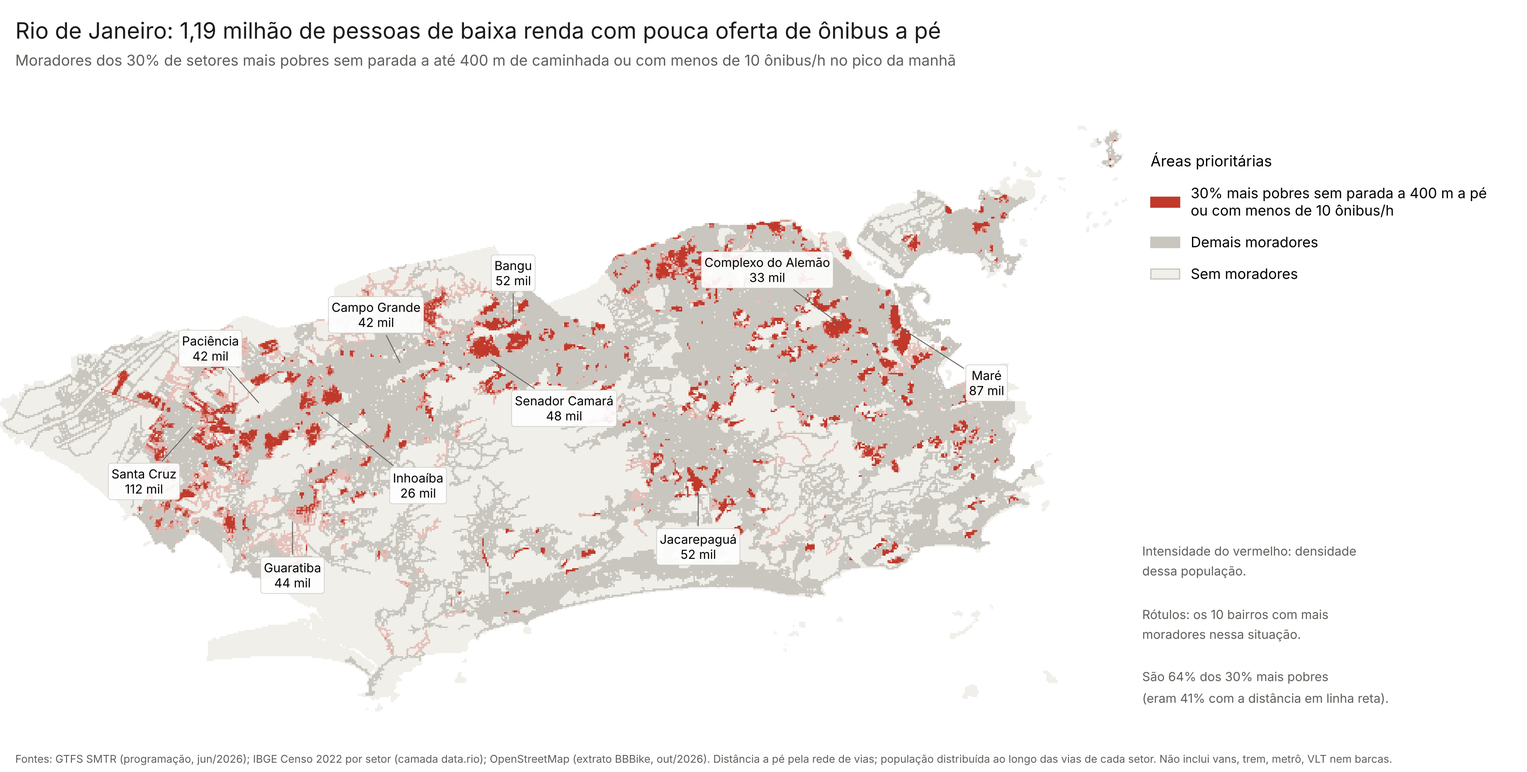
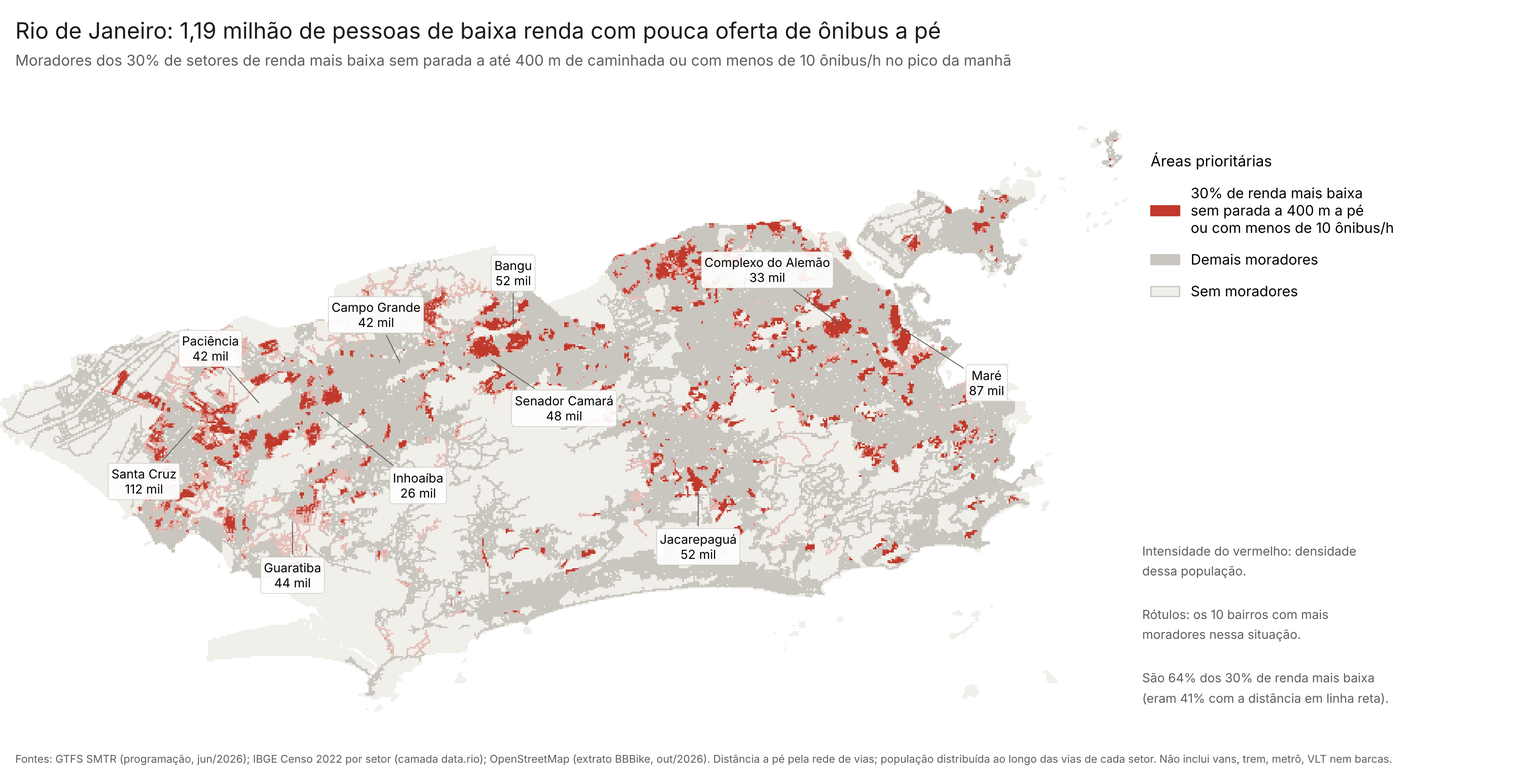
Troca "pobres" por "de renda mais baixa" (e "ricos" por "de renda mais alta") em textos, colunas e mapas
Claude-Session: https://claude.ai/code/session_01NJBd8BN6FHSywdz2uV6HJ5

Changed region(s): [[0.7482, 0.2465, 0.9665, 0.4006], [0.1559, 0.0616, 0.6547, 0.0924], [0.7482, 0.8628, 0.9041, 0.8936]]

diff --git a/reserva_secao_territorial/index_v5_com_indicadores_territoriais.html b/reserva_secao_territorial/index_v5_com_indicadores_territoriais.html
@@ -341,10 +341,10 @@ const IND=[
   desc:'Moradores a até 400 m a pé divididos pelas partidas de dia útil. Mede pressão potencial, não demanda.',
   get:l=>l.tec.ppp, cuts:[500,1000,2000,4000,8000], dir:'desc', pal:NEUT,
   labels:['menos de 500','500 a 1.000','1.000 a 2.000','2.000 a 4.000','4.000 a 8.000','8.000 ou mais'], show:v=>`${fmt(v)} moradores por partida`, short:v=>fmt(v), nd:'não roda em dia útil'},
- {k:'pob',tec:1,chip:'% mais pobres atendidos',titulo:'Parte da área atendida nos 30% mais pobres',unid:'%',usaFaixa:false,neutral:true,
+ {k:'pob',tec:1,chip:'% de renda mais baixa atendidos',titulo:'Parte da área atendida nos 30% de renda mais baixa',unid:'%',usaFaixa:false,neutral:true,
   desc:'Dos moradores a até 400 m a pé, quantos moram nos 30% de setores censitários de menor renda da cidade (referência neutra: 30%).',
   get:l=>l.tec.pob, cuts:[5,10,20,30,45], dir:'desc', pal:NEUT,
-  labels:['menos de 5%','5% a 10%','10% a 20%','20% a 30%','30% a 45%','45% ou mais'], show:v=>`${fmt(v)}% dos atendidos nos 30% mais pobres`, short:v=>`${fmt(v)}%`, nd:'sem dado'},
+  labels:['menos de 5%','5% a 10%','10% a 20%','20% a 30%','30% a 45%','45% ou mais'], show:v=>`${fmt(v)}% dos atendidos nos 30% de renda mais baixa`, short:v=>`${fmt(v)}%`, nd:'sem dado'},
  {k:'ppn',tec:1,chip:'% pretos e pardos',titulo:'Pretos e pardos na área atendida',unid:'%',usaFaixa:false,neutral:true,
   desc:'Parcela de pretos e pardos entre os moradores a até 400 m a pé (na cidade: 54%).',
   get:l=>l.tec.ppn, cuts:[35,45,52,58,63], dir:'desc', pal:NEUT,
@@ -671,7 +671,7 @@ const COLS=()=>[
  ...IND.map(i=>({k:i.k,t:i.chip+(i.usaFaixa?' ('+FX_LABEL[S.faixa].replace(/ \(.*\)/,'').toLowerCase()+')':(['viagens','horas'].includes(i.k)?' ('+diaTxt()+')':'')),ind:i,g:l=>i.get(l,S.dia,S.faixa),f:v=>v==null?'—':i.short(v)})),
  {k:'np',t:'Pontos de parada',g:l=>l.np,f:v=>fmt(v)},
  {k:'mpp',t:'Moradores por ponto',g:l=>l.np?Math.round(l.p4/l.np):null,f:v=>fmt(v)},
- {k:'ric',t:'% mais ricos atendidos',g:l=>l.tec.ric,f:v=>v==null?'—':fmt(v)+'%'},
+ {k:'ric',t:'% de renda mais alta atendidos',g:l=>l.tec.ric,f:v=>v==null?'—':fmt(v)+'%'},
  {k:'tar',t:'Tarifa',g:l=>l.tar,f:v=>v==null?'—':'R$ '+fmt(v,2)},
 ];
 const DEF_COLS=['espera','viagens','vel','frota','pop','pob'];
@@ -709,7 +709,7 @@ function refreshTec(){buildBins(); renderLegend(); renderList(); draw()}
 const csvq=v=>{if(v==null) return ''; const s=String(v); return /[",\n;]/.test(s)?'"'+s.replace(/"/g,'""')+'"':s};
 function csvText(rows){
   const fx=['madrugada','pico_manha','meio_do_dia','pico_tarde','noite','dia_todo'], d=['util','sabado','domingo'][S.dia];
-  const H=['linha','nome','tipo','operador','route_id','tarifa_rs',...fx.map(f=>`intervalo_min_${f}_${d}`),'partidas_dia_util','partidas_sabado','partidas_domingo',`horas_funcionamento_${d}`,'velocidade_kmh','extensao_km','moradores_400m_a_pe','moradores_800m_a_pe','pontos_de_parada','paradas','moradores_por_ponto','frota_min_estimada_pico','km_dia_util','tortuosidade','divergencia_ida_volta_pct','moradores_por_partida','pct_atendidos_30pct_mais_pobres','pct_atendidos_30pct_mais_ricos','pct_pretos_pardos','renda_media_area_atendida'];
+  const H=['linha','nome','tipo','operador','route_id','tarifa_rs',...fx.map(f=>`intervalo_min_${f}_${d}`),'partidas_dia_util','partidas_sabado','partidas_domingo',`horas_funcionamento_${d}`,'velocidade_kmh','extensao_km','moradores_400m_a_pe','moradores_800m_a_pe','pontos_de_parada','paradas','moradores_por_ponto','frota_min_estimada_pico','km_dia_util','tortuosidade','divergencia_ida_volta_pct','moradores_por_partida','pct_atendidos_30pct_renda_mais_baixa','pct_atendidos_30pct_renda_mais_alta','pct_pretos_pardos','renda_media_area_atendida'];
   const lines=[H.join(',')];
   rows.forEach(l=>{const t=l.tec; lines.push([l.n,l.nome,l.modo==='Executivo'?'Frescão':l.modo,l.op,l.r,l.tar,...l.iv[S.dia],l.pt[0][5]||0,l.pt[1][5]||0,l.pt[2][5]||0,l.amp[S.dia],l.vel,l.ext,l.p4,l.p8,l.np,l.st.length,l.np?Math.round(l.p4/l.np):'',t.fr,t.vkm,t.tort,t.div,t.ppp,t.pob,t.ric,t.ppn,t.ren].map(csvq).join(','))});
   return ''+lines.join('\n');
@@ -735,8 +735,8 @@ function tecFicha(l){
    ${r('Tortuosidade',t.tort!=null?fmt(t.tort,1):'circular')}
    ${r('Trajeto só em um sentido',t.div!=null?fmt(t.div)+'%':(t.ns===1?'um sentido só':'—'))}
    ${r('Moradores por partida (dia útil)',t.ppp!=null?fmt(t.ppp):'—')}
-   ${r('Atendidos nos 30% mais pobres',t.pob!=null?fmt(t.pob)+'% <span style="color:var(--muted)">(neutro: 30%)</span>':'—')}
-   ${r('Atendidos nos 30% mais ricos',t.ric!=null?fmt(t.ric)+'%':'—')}
+   ${r('Atendidos nos 30% de renda mais baixa',t.pob!=null?fmt(t.pob)+'% <span style="color:var(--muted)">(neutro: 30%)</span>':'—')}
+   ${r('Atendidos nos 30% de renda mais alta',t.ric!=null?fmt(t.ric)+'%':'—')}
    ${r('Pretos e pardos na área atendida',t.ppn!=null?fmt(t.ppn)+'% <span style="color:var(--muted)">(cidade: 54%)</span>':'—')}
    ${r('Renda média da área atendida',t.ren?'R$ '+fmt(t.ren):'—')}
    ${r('Identificador GTFS',`<code>${esc(l.r)}</code>`)}

diff --git a/reserva_secao_territorial/index_v3_camadas_bairros.html b/reserva_secao_territorial/index_v3_camadas_bairros.html
@@ -494,7 +494,7 @@ function renderAbout(){
   <ul>
    <li><b>Ônibus perto de casa:</b> para cada quadra (quadrícula de 100 m), a classe da maioria dos moradores: sem parada a até 400 m de caminhada, ou quantos ônibus por hora passam a até 400 m no pico da manhã de dia útil (somando as linhas, no sentido mais frequente de cada uma).</li>
    <li><b>Renda e ônibus:</b> cruza a renda média do responsável pelo domicílio (Censo 2022, em três faixas com o mesmo número de pessoas) com a oferta de ônibus a pé no pico.</li>
-   <li><b>Onde falta ônibus:</b> moradores dos 30% de setores mais pobres que não têm parada a até 400 m a pé ou têm menos de 10 ônibus por hora no pico.</li>
+   <li><b>Onde falta ônibus:</b> moradores dos 30% de setores de renda mais baixa que não têm parada a até 400 m a pé ou têm menos de 10 ônibus por hora no pico.</li>
    <li><b>Caminho até o ponto:</b> quanto a caminhada pelas ruas até a parada mais próxima é mais longa que a linha reta. Valores altos indicam morros, vias expressas, linhas de trem e condomínios fechados.</li>
    <li>A população de cada setor do Censo foi distribuída ao longo das ruas onde as pessoas moram. Os limites de bairro são aproximados. Gericinó concentra o complexo penitenciário, e Paquetá não tem linhas de ônibus.</li>
   </ul>
@@ -697,7 +697,7 @@ function renderLayerLegend(){
     g+='<span></span><span style="text-align:center">baixa</span><span style="text-align:center">média</span><span style="text-align:center">alta</span></div>';
     h+=`<div class="sub">Ônibus por hora a até 400 m a pé (pico) × renda da vizinhança</div><div class="bivwrap">${g}<div class="bivnotes"><span>Canto superior esquerdo: baixa renda e poucos ônibus.</span><span>Ônibus: poucos = sem parada ou menos de 10/h; muitos = 30 ou mais/h.</span></div></div>`;
   } else if(S.cam===3){
-    h+=`<div class="sub">Pico da manhã, dia útil</div><ul><li><span class="sw" style="background:${cssv('--pri')};height:10px"></span><span>30% mais pobres sem parada a 5 min a pé ou com menos de 10 ônibus/h</span><span class="ct num">${fmt(L.pri/1e6,2)} mi</span></li><li><span class="sw" style="background:${cssv('--res')};height:10px"></span><span>Demais moradores</span><span></span></li></ul><div class="note">Vermelho mais forte: mais gente nessa situação.</div>`;
+    h+=`<div class="sub">Pico da manhã, dia útil</div><ul><li><span class="sw" style="background:${cssv('--pri')};height:10px"></span><span>30% de renda mais baixa sem parada a 5 min a pé ou com menos de 10 ônibus/h</span><span class="ct num">${fmt(L.pri/1e6,2)} mi</span></li><li><span class="sw" style="background:${cssv('--res')};height:10px"></span><span>Demais moradores</span><span></span></li></ul><div class="note">Vermelho mais forte: mais gente nessa situação.</div>`;
   }
   h+=`<div class="note">Linhas de ônibus em cinza. Escolha "Nenhuma" para colorir as linhas.</div>`;
   lg.innerHTML=h;

diff --git a/tests/teste_tec.js b/tests/teste_tec.js
@@ -9,7 +9,7 @@ const { chromium } = require('/opt/npm-tools/node_modules/playwright');
   console.log('técnico: chips técnicos =',await p.locator('#tecChips .chip').count(), '| linhas na tabela =', await p.locator('#tblBox tbody tr').count());
   await p.click('#ind-frota'); await p.waitForTimeout(400); await p.screenshot({path:`${out}/tec_2_frota.png`});
   console.log('1ª linha frota (maior primeiro):', (await p.locator('#tblBox tbody tr').first().innerText()).replace(/\t|\n/g,' | '));
-  // filtro: espera no pico entre 0 e 10 e % mais pobres >= 30
+  // filtro: espera no pico entre 0 e 10 e % de renda mais baixa >= 30
   await p.selectOption('#fK','espera'); await p.fill('#fMin','0'); await p.fill('#fMax','10'); await p.click('#fAdd'); await p.waitForTimeout(300);
   await p.selectOption('#fK','pob'); await p.fill('#fMin','30'); await p.click('#fAdd'); await p.waitForTimeout(400);
   console.log('após filtros:', await p.locator('#tecHead .meta').innerText(), '| chips filtro:', await p.locator('.fchip').count());

diff --git a/scripts/02_linha_reta/mapas_renda.py b/scripts/02_linha_reta/mapas_renda.py
@@ -44,13 +44,13 @@ domq,accq=dominant(q,5); has=(accq.sum(0)>0)
 ramp=['#fde3cf','#f9b98a','#ef8a4c','#c75d22','#8a3a10']
 rgb=base(); rgb[has&~lowmask]=np.array([to_rgb(c) for c in ramp])[domq[has&~lowmask]]; rgb[lowmask]=to_rgb(LOWC)
 qlab=[f"{int(lim.loc[2*i+1,'min']):,}".replace(',','.')+' a '+f"{int(lim.loc[2*i+2,'max']):,}".replace(',','.') for i in range(5)]
-names=['20% mais pobres','2º quinto','3º quinto','4º quinto','20% mais ricos']
+names=['20% de renda mais baixa','2º quinto','3º quinto','4º quinto','20% de renda mais alta']
 h=[Patch(color=ramp[i],label=f'{names[i]}\nR$ {qlab[i]}') for i in range(5)]+[Patch(color=LOWC,label=f'Baixa densidade (<{LOW:,} hab/km²)'.replace(',','.')),Patch(facecolor=BG,edgecolor='#c9c6bf',label='Sem moradores')]
-show(rgb,'Rio de Janeiro: renda média do responsável pelo domicílio','Quintos da população, do setor censitário mais pobre ao mais rico',
+show(rgb,'Rio de Janeiro: renda média do responsável pelo domicílio','Quintos da população, do setor censitário de renda mais baixa ao de renda mais alta',
      'mapa_1_renda.png',h,'Renda média mensal do responsável',f'Cada quinto reúne ~1,24 milhão de\npessoas. Quadrículas de 100 m com\nmenos de {LOW:,} hab/km² em cinza\n({str(round(pctlow,1)).replace(".",",")}% da população).'.replace('1,000','1.000'))
 # ---- Mapa 2: bivariado renda (tercis) x oferta (3 classes)
-t=np.where(dcell>0,np.select([dcell<=3,dcell<=7],[0,1],2),-1)    # 0 = 30% mais pobres, 1 = meio (40%), 2 = 30% mais ricos
-xr=2-t                                                            # x: 0 rico ... 2 pobre
+t=np.where(dcell>0,np.select([dcell<=3,dcell<=7],[0,1],2),-1)    # 0 = 30% de renda mais baixa, 1 = meio (40%), 2 = 30% de renda mais alta
+xr=2-t                                                            # x: 0 renda alta ... 2 renda baixa
 ys=2-serv                                                         # y: 0 oferta alta ... 2 baixa
 lbl=np.where(t>=0,ys*3+xr,-1)
 domb,accb=dominant(lbl,9); has=(accb.sum(0)>0)
@@ -73,14 +73,14 @@ def legend_bi(fig,ax):
     fig.text(lx+3*s*0.505+0.008,ly+0.005,'baixa renda +\nmuito ônibus',fontsize=10,color='#985356',va='bottom')
     fig.text(lx-0.005,ly+3*s+0.0,'',fontsize=1)
 sp=share
-note=(f"Renda: 30% mais pobres · 40% do meio · 30% mais ricos.\n"
+note=(f"Renda: 30% mais baixa · 40% do meio · 30% mais alta.\n"
       f"Oferta: pouco = sem parada ou <10 ônibus/h; médio = 10–30;\nmuito = 30+ (6h–9h em dia útil).\n\n"
-      f"Têm pouco ônibus: {sp.loc[0,0]:.0f}% dos 30% mais pobres,\n{sp.loc[0,1]:.0f}% do meio e {sp.loc[0,2]:.0f}% dos 30% mais ricos.\n\n"
+      f"Têm pouco ônibus: {sp.loc[0,0]:.0f}% dos 30% de renda mais baixa,\n{sp.loc[0,1]:.0f}% do meio e {sp.loc[0,2]:.0f}% dos 30% de renda mais alta.\n\n"
       f"Cinza bem claro: <{LOW:,} hab/km².").replace(',','.')
 fig_note=note
 show(rgb,'Rio de Janeiro: renda e oferta de ônibus no pico da manhã','Tons escuros: onde baixa renda e pouca oferta de ônibus coincidem',
      'mapa_2_renda_x_oferta.png',None,None,fig_note,legend_bi)
-# ---- Mapa 3: prioridade (30% mais pobres E pouca oferta)
+# ---- Mapa 3: prioridade (30% de renda mais baixa E pouca oferta)
 pri=(dcell>=1)&(dcell<=3)&(serv==0)
 pp=np.bincount(k[pri],weights=cp[pri],minlength=NX*NY)
 rgb=base(); pop_any=pt>0
@@ -108,8 +108,8 @@ def labels(fig,ax):
         ax.annotate(f"{b}\n{int(PB.loc[b,'pop_prioritaria']/1000)} mil",(B.loc[b,'x']/AG,B.loc[b,'y']/AG),xytext=off,textcoords='offset points',
             fontsize=10,ha='center',va='center',color='#1a1a19',bbox=dict(boxstyle='round,pad=0.25',fc='white',ec='#c9c6bf',lw=0.5,alpha=0.92),
             arrowprops=dict(arrowstyle='-',color='#5f5e5a',lw=0.7) if off!=(0,0) else None)
-h=[Patch(color='#c0392b',label='30% mais pobres sem parada a 400 m\nou com menos de 10 ônibus/h'),Patch(color='#c9c6bf',label='Demais moradores'),Patch(facecolor=BG,edgecolor='#c9c6bf',label='Sem moradores')]
+h=[Patch(color='#c0392b',label='30% de renda mais baixa\nsem parada a 400 m\nou com menos de 10 ônibus/h'),Patch(color='#c9c6bf',label='Demais moradores'),Patch(facecolor=BG,edgecolor='#c9c6bf',label='Sem moradores')]
 show(rgb,f'Rio de Janeiro: {round(totp/1000)} mil pessoas de baixa renda com pouca oferta de ônibus',
-     'Moradores dos 30% de setores mais pobres sem parada a até 400 m ou com menos de 10 ônibus/h no pico da manhã',
+     'Moradores dos 30% de setores de renda mais baixa sem parada a até 400 m ou com menos de 10 ônibus/h no pico da manhã',
      'mapa_3_prioridade.png',h,'Áreas prioritárias',
-     f'Intensidade do vermelho: densidade\ndessa população.\n\nRótulos: os 10 bairros com mais\nmoradores nessa situação.\n\nSão {100*totp/cp[(dcell>=1)&(dcell<=3)].sum():.0f}% dos 30% mais pobres\n(contra {100*cp[(dcell>=8)&(serv==0)].sum()/cp[dcell>=8].sum():.0f}% dos 30% mais ricos).',labels)
+     f'Intensidade do vermelho: densidade\ndessa população.\n\nRótulos: os 10 bairros com mais\nmoradores nessa situação.\n\nSão {100*totp/cp[(dcell>=1)&(dcell<=3)].sum():.0f}% dos 30% de renda mais baixa\n(contra {100*cp[(dcell>=8)&(serv==0)].sum()/cp[dcell>=8].sum():.0f}% dos 30% de renda mais alta).',labels)

diff --git a/scripts/03_a_pe/mapas_a_pe.py b/scripts/03_a_pe/mapas_a_pe.py
@@ -58,8 +58,8 @@ fig.text(lx,ly-0.03,'menor renda  →',fontsize=11); fig.text(lx-0.018,ly,'menos
 fig.text(lx,ly+3*s+0.06,'Renda × oferta no pico',fontsize=12.5); fig.text(lx,ly+3*s+0.025,'tercis de renda × ônibus/h a até 400 m a pé',fontsize=10.5,color='#5f5e5a')
 fig.text(lx+3*s*0.505+0.008,ly+2*s+0.012,'baixa renda +\npouco ônibus',fontsize=10,color='#574249',va='bottom')
 fig.text(lx+3*s*0.505+0.008,ly+0.005,'baixa renda +\nmuito ônibus',fontsize=10,color='#985356',va='bottom')
-fig.text(0.748,0.30,(f"Renda: 30% mais pobres · 40% do meio · 30% mais ricos.\nOferta: pouco = sem parada a 400 m a pé ou <10 ônibus/h;\nmédio = 10–30; muito = 30+ (6h–9h em dia útil).\n\n"
-  f"Têm pouco ônibus: {sh.loc[0,0]:.0f}% dos 30% mais pobres,\n{sh.loc[0,1]:.0f}% do meio e {sh.loc[0,2]:.0f}% dos 30% mais ricos.\n\nCinza bem claro: <1.000 hab/km²."),fontsize=10,color='#5f5e5a',va='top',linespacing=1.4)
+fig.text(0.748,0.30,(f"Renda: 30% mais baixa · 40% do meio · 30% mais alta.\nOferta: pouco = sem parada a 400 m a pé ou <10 ônibus/h;\nmédio = 10–30; muito = 30+ (6h–9h em dia útil).\n\n"
+  f"Têm pouco ônibus: {sh.loc[0,0]:.0f}% dos 30% de renda mais baixa,\n{sh.loc[0,1]:.0f}% do meio e {sh.loc[0,2]:.0f}% dos 30% de renda mais alta.\n\nCinza bem claro: <1.000 hab/km²."),fontsize=10,color='#5f5e5a',va='top',linespacing=1.4)
 plt.savefig(os.path.join(OUTP,'mapa_a_pe_2_renda_x_oferta.png'),facecolor='white'); plt.close(fig)
 print('bivariado:\n',sh.round(1))
 # --- 3) prioridade
@@ -73,16 +73,16 @@ B=pd.DataFrame({'b':bai[pri],'x':((px[M.p.values[pri]]-x0)/AGM)*M['pop'].values[
 B['x']/=B.w; B['y']/=B.w
 totp=M['pop'].values[pri].sum(); lowtot=M['pop'].values[(dec>=1)&(dec<=3)].sum()
 fig,ax=fig_(f'Rio de Janeiro: {totp/1e6:.2f} milhão de pessoas de baixa renda com pouca oferta de ônibus a pé'.replace('.',','),
-   'Moradores dos 30% de setores mais pobres sem parada a até 400 m de caminhada ou com menos de 10 ônibus/h no pico da manhã')
+   'Moradores dos 30% de setores de renda mais baixa sem parada a até 400 m de caminhada ou com menos de 10 ônibus/h no pico da manhã')
 ax.imshow(rgb.reshape(NY,NX,3),origin='lower',interpolation='nearest')
 OFF={'Santa Cruz':(-40,-45),'Maré':(70,-45),'Bangu':(0,45),'Jacarepaguá':(0,-45),'Senador Camará':(60,-40),'Guaratiba':(0,-45),'Campo Grande':(-20,40),'Paciência':(-40,45),'Complexo do Alemão':(-60,45),'Inhoaíba':(75,-60)}
 for b in PB.head(10).index:
     off=OFF.get(b,(0,40))
     ax.annotate(f"{b}\n{int(PB.loc[b,'pop_prioritaria']/1000)} mil",(B.loc[b,'x'],B.loc[b,'y']),xytext=off,textcoords='offset points',fontsize=10,ha='center',va='center',
        bbox=dict(boxstyle='round,pad=0.25',fc='white',ec='#c9c6bf',lw=0.5,alpha=0.92),arrowprops=dict(arrowstyle='-',color='#5f5e5a',lw=0.7))
-h=[Patch(color='#c0392b',label='30% mais pobres sem parada a 400 m a pé\nou com menos de 10 ônibus/h'),Patch(color='#c9c6bf',label='Demais moradores'),Patch(facecolor=LAND,edgecolor='#c9c6bf',label='Sem moradores')]
+h=[Patch(color='#c0392b',label='30% de renda mais baixa\nsem parada a 400 m a pé\nou com menos de 10 ônibus/h'),Patch(color='#c9c6bf',label='Demais moradores'),Patch(facecolor=LAND,edgecolor='#c9c6bf',label='Sem moradores')]
 fig.legend(handles=h,loc='upper left',bbox_to_anchor=(0.745,0.82),frameon=False,fontsize=11.5,labelspacing=1.0,title='Áreas prioritárias',title_fontsize=12,alignment='left')
-fig.text(0.748,0.30,f'Intensidade do vermelho: densidade\ndessa população.\n\nRótulos: os 10 bairros com mais\nmoradores nessa situação.\n\nSão {100*totp/lowtot:.0f}% dos 30% mais pobres\n(eram 41% com a distância em linha reta).',fontsize=10,color='#5f5e5a',va='top',linespacing=1.4)
+fig.text(0.748,0.30,f'Intensidade do vermelho: densidade\ndessa população.\n\nRótulos: os 10 bairros com mais\nmoradores nessa situação.\n\nSão {100*totp/lowtot:.0f}% dos 30% de renda mais baixa\n(eram 41% com a distância em linha reta).',fontsize=10,color='#5f5e5a',va='top',linespacing=1.4)
 plt.savefig(os.path.join(OUTP,'mapa_a_pe_3_prioridade.png'),facecolor='white'); plt.close(fig)
 # --- 4) fator de desvio (caminhada ÷ linha reta até a parada mais próxima)
 ddw=dw[M.p.values]; dde=de[M.p.values]; ok=(dde>100)&np.isfinite(ddw)&(ddw<5000)

diff --git a/reserva_secao_territorial/patch_v3.py b/reserva_secao_territorial/patch_v3.py
@@ -128,7 +128,7 @@ R("  <h3>Mapa</h3>",
   "  <ul>\n"
   "   <li><b>Ônibus perto de casa:</b> para cada quadra (quadrícula de 100 m), a classe da maioria dos moradores: sem parada a até 400 m de caminhada, ou quantos ônibus por hora passam a até 400 m no pico da manhã de dia útil (somando as linhas, no sentido mais frequente de cada uma).</li>\n"
   "   <li><b>Renda e ônibus:</b> cruza a renda média do responsável pelo domicílio (Censo 2022, em três faixas com o mesmo número de pessoas) com a oferta de ônibus a pé no pico.</li>\n"
-  "   <li><b>Onde falta ônibus:</b> moradores dos 30% de setores mais pobres que não têm parada a até 400 m a pé ou têm menos de 10 ônibus por hora no pico.</li>\n"
+  "   <li><b>Onde falta ônibus:</b> moradores dos 30% de setores de renda mais baixa que não têm parada a até 400 m a pé ou têm menos de 10 ônibus por hora no pico.</li>\n"
   "   <li><b>Caminho até o ponto:</b> quanto a caminhada pelas ruas até a parada mais próxima é mais longa que a linha reta. Valores altos indicam morros, vias expressas, linhas de trem e condomínios fechados.</li>\n"
   "   <li>A população de cada setor do Censo foi distribuída ao longo das ruas onde as pessoas moram. Os limites de bairro são aproximados. Gericinó concentra o complexo penitenciário, e Paquetá não tem linhas de ônibus.</li>\n"
   "  </ul>\n"
@@ -207,7 +207,7 @@ function renderLayerLegend(){
     g+='<span></span><span style="text-align:center">baixa</span><span style="text-align:center">média</span><span style="text-align:center">alta</span></div>';
     h+=`<div class="sub">Ônibus por hora a até 400 m a pé (pico) × renda do bairro</div><div class="bivwrap">${g}<div class="bivnotes"><span>Tons escuros: baixa renda e poucos ônibus.</span><span>Ônibus: poucos = sem parada ou menos de 10/h; muitos = 30 ou mais/h.</span></div></div>`;
   } else if(S.cam===3){
-    h+=`<div class="sub">Pico da manhã, dia útil</div><ul><li><span class="sw" style="background:${cssv('--pri')};height:10px"></span><span>30% mais pobres sem parada a 5 min a pé ou com menos de 10 ônibus/h</span><span class="ct num">${fmt(L.pri/1e6,2)} mi</span></li><li><span class="sw" style="background:${cssv('--res')};height:10px"></span><span>Demais moradores</span><span></span></li></ul><div class="note">Vermelho mais forte: mais gente nessa situação.</div>`;
+    h+=`<div class="sub">Pico da manhã, dia útil</div><ul><li><span class="sw" style="background:${cssv('--pri')};height:10px"></span><span>30% de renda mais baixa sem parada a 5 min a pé ou com menos de 10 ônibus/h</span><span class="ct num">${fmt(L.pri/1e6,2)} mi</span></li><li><span class="sw" style="background:${cssv('--res')};height:10px"></span><span>Demais moradores</span><span></span></li></ul><div class="note">Vermelho mais forte: mais gente nessa situação.</div>`;
   }
   h+=`<div class="note">Linhas de ônibus em cinza. Escolha "Nenhuma" para colorir as linhas.</div>`;
   lg.innerHTML=h;

diff --git a/scripts/04_indicadores/ind_pop_linha.py b/scripts/04_indicadores/ind_pop_linha.py
@@ -23,7 +23,7 @@ S=pd.read_csv(os.path.join(APE,'setores_cobertura_a_pe.csv'))
 Sp=S[(S.populacao>0)&(S.renda_media_responsavel>0)].sort_values('renda_media_responsavel')
 dec=pd.Series(-1,index=S.index); dec[Sp.index]=np.minimum((Sp.populacao.cumsum()/Sp.populacao.sum()*10).astype(int)+1,10)
 pp=ps.p.values; pop=ps['pop'].values; ss=ps.s.values
-pobre=pop*((dec.values[ss]>=1)&(dec.values[ss]<=3)); rico=pop*(dec.values[ss]>=8)
+rbaixa=pop*((dec.values[ss]>=1)&(dec.values[ss]<=3)); ralta=pop*(dec.values[ss]>=8)
 share=lambda c:(S[c]/S.populacao.replace(0,np.nan)).fillna(0).values
 pn=pop*(share('preta')+share('parda'))[ss]; renda=pop*np.where(S.renda_media_responsavel.values[ss]>0,S.renda_media_responsavel.values[ss],0); rpop=pop*(S.renda_media_responsavel.values[ss]>0)
 rs=stt.merge(tr[['trip_id','route_id']]).drop_duplicates(['stop_id','route_id']); rs=rs[rs.stop_id.isin(sid)]
@@ -31,8 +31,8 @@ rows=[]
 for rid,grp in rs.groupby('route_id'):
     dd=pdist(dijkstra(G,directed=False,indices=[sid[s] for s in grp.stop_id.unique()],min_only=True,limit=801))
     cov=(dd<=R)[pp]; P_=pop[cov].sum(); P8=pop[(dd<=800)[pp]].sum()
-    rows.append({'route_id':rid,'pop_400m_a_pe':round(P_),'pop_800m_a_pe':round(P8),'pct_pop_30pct_mais_pobres':round(100*pobre[cov].sum()/P_,1) if P_>0 else np.nan,
-                 'pct_pop_30pct_mais_ricos':round(100*rico[cov].sum()/P_,1) if P_>0 else np.nan,
+    rows.append({'route_id':rid,'pop_400m_a_pe':round(P_),'pop_800m_a_pe':round(P8),'pct_pop_30pct_renda_mais_baixa':round(100*rbaixa[cov].sum()/P_,1) if P_>0 else np.nan,
+                 'pct_pop_30pct_renda_mais_alta':round(100*ralta[cov].sum()/P_,1) if P_>0 else np.nan,
                  'pct_pretos_pardos':round(100*pn[cov].sum()/P_,1) if P_>0 else np.nan,
                  'renda_media_area_atendida':round(renda[cov].sum()/max(rpop[cov].sum(),1),0)})
 D=pd.DataFrame(rows); D.to_csv(os.path.join(DST,'_pop_linha.csv'),index=False); print(D.describe().round(1).T)

diff --git a/scripts/03_a_pe/agrega_a_pe.py b/scripts/03_a_pe/agrega_a_pe.py
@@ -48,7 +48,7 @@ for c in ['branca','preta','parda']:
     rows.append({'cor_raca':c,'populacao':int(w.sum()),'pct_400m_a_pe':round(100*(w*sh('cob')).sum()/w.sum(),1),'pct_400m_a_pe_10onibus_h':round(100*(w*sh('bom')).sum()/w.sum(),1),
                  'dist_media_a_pe_m':round((w*(S.wd/S['pop']).fillna(0)).sum()/w.sum(),0)})
 E2=pd.DataFrame(rows); print(E2.to_string(index=False)); E2.to_csv(os.path.join(OUTP,'equidade_cor_raca_a_pe.csv'),index=False)
-# prioridade: 30% mais pobres e (sem parada a 400 m a pé ou <10 ônibus/h)
+# prioridade: 30% de renda mais baixa e (sem parada a 400 m a pé ou <10 ônibus/h)
 dec=pd.Series(-1,index=S.index); dec[Sp.index]=Sp.decil_renda
 ps['dec']=dec.reindex(ps.s.values).values
 pri=(ps.dec>=1)&(ps.dec<=3)&((ps.dw>R)|(ps.f<10))
@@ -57,7 +57,7 @@ PB=ps.groupby(S.bairro.values[ps.s.values])[['pri','pri_sem']].sum().rename(colu
 PB['pop_bairro']=S.groupby('bairro').populacao.sum().reindex(PB.index); PB['pct_bairro']=(100*PB.pop_prioritaria/PB.pop_bairro).round(1)
 PB=PB.sort_values('pop_prioritaria',ascending=False); PB.rename_axis('bairro').reset_index().to_csv(os.path.join(OUTP,'prioridade_bairros_a_pe.csv'),index=False)
 low=ps[(ps.dec>=1)&(ps.dec<=3)]['pop'].sum(); hi=ps[ps.dec>=8]
-print(f"pop prioritária: {ps.pri.sum():,.0f} = {100*ps.pri.sum()/low:.0f}% dos 30% mais pobres; entre os 30% mais ricos: {100*hi[(hi.dw>R)|(hi.f<10)]['pop'].sum()/hi['pop'].sum():.0f}%")
+print(f"pop prioritária: {ps.pri.sum():,.0f} = {100*ps.pri.sum()/low:.0f}% dos 30% de renda mais baixa; entre os 30% de renda mais alta: {100*hi[(hi.dw>R)|(hi.f<10)]['pop'].sum()/hi['pop'].sum():.0f}%")
 print(PB.head(12).to_string())
 # células para os mapas: salva por ponto a classe e o decil dominante
 ps[['p','s','pop','dec','cls']].to_csv(os.path.join(OUTP,'pontos_mapa.csv.gz'),index=False)

diff --git a/scripts/04_indicadores/ind_monta.py b/scripts/04_indicadores/ind_monta.py
@@ -24,7 +24,7 @@ cols=['route_id','route_short_name','route_long_name','operador','modo','tarifa_
  'primeira_partida_util','ultima_partida_util','amplitude_servico_h_util','amplitude_servico_h_sabado','amplitude_servico_h_domingo',
  'veiculo_km_dia_util','frota_min_estimada_pico_util',
  'extensao_km','velocidade_comercial_kmh','tortuosidade','divergencia_ida_volta_pct','n_sentidos','circular',
- 'pop_400m_a_pe','pop_800m_a_pe','pop_por_partida_util','pct_pop_30pct_mais_pobres','pct_pop_30pct_mais_ricos','pct_pretos_pardos','renda_media_area_atendida']
+ 'pop_400m_a_pe','pop_800m_a_pe','pop_por_partida_util','pct_pop_30pct_renda_mais_baixa','pct_pop_30pct_renda_mais_alta','pct_pretos_pardos','renda_media_area_atendida']
 X=X[cols].rename(columns={'route_short_name':'linha','route_long_name':'nome','route_color':'cor_linha','primeira_partida_util':'primeira_partida_util','frota_min_estimada_pico_util':'frota_min_estimada_pico'})
 X.sort_values(['modo','linha']).to_csv(os.path.join(DST,'indicadores_linhas.csv'),index=False)
 print(X.shape); print(X.isna().sum()[X.isna().sum()>0].to_dict())

diff --git a/docs/plano-e-metodo.md b/docs/plano-e-metodo.md
@@ -21,14 +21,14 @@ Arquivo principal: `indicadores_linhas.csv` (494 linhas × 37 colunas) + `linhas
 Indicadores (todos de serviço programado):
 - Oferta: partidas/dia (útil, sábado, domingo); intervalo médio por faixa horária no dia útil (madrugada 0–5h, pico manhã 6–9h, entrepico 9–16h, pico tarde 16–19h, noite 19–24h) e no dia todo de sábado/domingo, pelo método do busmadrid (por sentido, 60 × horas com partida ÷ partidas; média dos sentidos); primeira/última partida; amplitude de serviço; veículo-km/dia; frota mínima estimada no pico (Σ sentidos de partidas/h × duração em h, sem tempo de terminal).
 - Traçado: extensão, velocidade comercial programada (extensão do traçado mais usado ÷ duração mediana), tortuosidade (vazia nas 41 circulares), divergência ida/volta (tolerância de 40 m; vazia nas 53 de um sentido).
-- Território: população a 400 m e a 800 m a pé, população por partida, % da população atendida nos 30% mais pobres e nos 30% mais ricos, % de pretos e pardos, renda média da área atendida; tarifa.
+- Território: população a 400 m e a 800 m a pé, população por partida, % da população atendida nos 30% de renda mais baixa e nos 30% de renda mais alta, % de pretos e pardos, renda média da área atendida; tarifa.
 
 Achados:
 - Intervalo no pico da manhã (dia útil): mediana de 16,5 min; 79 linhas não operam no pico (noturnas SN, executivas etc.). Menores intervalos: BRT 22 (1,8 min), BRT 61 e linha 232 (2,7 min).
 - Velocidade programada: mediana de 23 km/h (ônibus), 29 km/h (BRT); de 11 km/h (851, 859) a 50 km/h (614, via Linha Amarela).
 - Frota mínima estimada no pico: ~4,1 mil veículos no total (Internorte 1.229, Santa Cruz 922, Transcarioca 898, MOBI-Rio 542, Intersul 475).
 - Divergência ida/volta média de 38% (muitos binários de mão única).
-- As linhas atendem áreas mais ricas que a média: em média 19% da população atendida está nos 30% mais pobres e 42% nos 30% mais ricos (referência neutra: 30%/30%). Entre as linhas comuns, o quartil que atende as áreas mais pobres tem intervalo mediano no pico de 20 min, contra 13 min no quartil mais rico (correlação de Spearman fraca, −0,17).
+- As linhas atendem áreas de renda mais alta que a média: em média 19% da população atendida está nos 30% de renda mais baixa e 42% nos 30% de renda mais alta (referência neutra: 30%/30%). Entre as linhas comuns, o quartil que atende as áreas de renda mais baixa tem intervalo mediano no pico de 20 min, contra 13 min no quartil mais rico (correlação de Spearman fraca, −0,17).
 - BRT: mediana de 16 mil pessoas a 400 m a pé e 73 mil a 800 m (estações espaçadas; 800 m é a referência usual).
 
 ## Fase 2: cobertura populacional — VERSÃO ATUAL: distância a pé (19/10/2026)
@@ -59,8 +59,8 @@ Resultados:
 - Por AP (% a 400 m a pé): AP1 68,3% · AP2 82,4% · AP3 71,7% · AP4 59,1% · AP5 62,2%. Na AP1 a queda vem dos morros (Santo Cristo 34%, Estácio 37%, Gamboa 54%, Santa Teresa 68%); Centro 99,7%, Lapa 100%.
 - Renda: decil 1 = 40,9% a 400 m a pé (68,1% em linha reta), distância média de 519 m; decil 9 = 85,1%, 235 m; decil 10 = 72,0% (Barra e condomínios).
 - Cor/raça: 72,9% dos brancos contra 64,0–64,4% dos pretos e pardos a 400 m a pé; com 10+ ônibus/h, 61,5% contra 49–50%.
-- Renda × oferta (tercis): têm pouca oferta (sem parada a 400 m a pé ou <10 ônibus/h) 64% dos 30% mais pobres, 43% do meio e 28% dos 30% mais ricos.
-- **Área prioritária: 1,19 milhão de pessoas** nos 30% mais pobres com pouca oferta (eram 752 mil em linha reta). Bairros: Santa Cruz 113 mil, Maré 87 mil (70% do bairro; 82 mil sem parada a 400 m a pé), Bangu 52 mil, Jacarepaguá 52 mil, Senador Camará 48 mil, Guaratiba 45 mil, Campo Grande 43 mil, Paciência 42 mil, Complexo do Alemão 34 mil (63% do bairro), Inhoaíba 26 mil.
+- Renda × oferta (tercis): têm pouca oferta (sem parada a 400 m a pé ou <10 ônibus/h) 64% dos 30% de renda mais baixa, 43% do meio e 28% dos 30% de renda mais alta.
+- **Área prioritária: 1,19 milhão de pessoas** nos 30% de renda mais baixa com pouca oferta (eram 752 mil em linha reta). Bairros: Santa Cruz 113 mil, Maré 87 mil (70% do bairro; 82 mil sem parada a 400 m a pé), Bangu 52 mil, Jacarepaguá 52 mil, Senador Camará 48 mil, Guaratiba 45 mil, Campo Grande 43 mil, Paciência 42 mil, Complexo do Alemão 34 mil (63% do bairro), Inhoaíba 26 mil.
 - População por linha cai em média 39% em relação à linha reta (de 20% a 82%).
 
 Saídas: cobertura_rede_a_pe, nivel_servico_a_pe, ap/ra/bairros_cobertura_a_pe, setores_cobertura_a_pe (com as duas versões), linhas_populacao_a_pe, paradas_populacao_a_pe, equidade_renda_a_pe, equidade_cor_raca_a_pe, prioridade_bairros_a_pe (CSV); mapas mapa_a_pe_1_nivel_servico, mapa_a_pe_2_renda_x_oferta, mapa_a_pe_3_prioridade, mapa_a_pe_4_desvio (PNG).
@@ -79,7 +79,7 @@ Método: população uniforme no setor em grade de 20 m (`raster.py` → `cobert
 - 400 m: 85,3% (300 m 74,6%; 500 m 91,3%; 800 m 97,9%); BRT a 400 m 8,6%.
 - Nível de serviço: 14,7% sem parada; 74% com 10+ ônibus/h.
 - Decil 1 de renda: 65% a 400 m; decil 9: 95%.
-- Área prioritária: 752 mil pessoas (41% dos 30% mais pobres).
+- Área prioritária: 752 mil pessoas (41% dos 30% de renda mais baixa).
 - Mapas: mapa_nivel_servico.png, mapa_1_renda.png, mapa_2_renda_x_oferta.png, mapa_3_prioridade.png.
 
 ## Como o OSM foi obtido

diff --git a/docs/painel.md b/docs/painel.md
@@ -12,7 +12,7 @@ Versões: v1 (19/10/2026) núcleo · v2 (20/10/2026) moradores por ponto de para
 - Primeiro a versão para a população em geral; depois um modo "análise técnica" (feito).
 - Moradores por parada: só na ficha da linha, não como indicador de cor do mapa no modo geral (20/10/2026). No modo técnico aparece como coluna da tabela e do CSV, não como cor do mapa.
 - Camadas territoriais e aba Bairros: **fora do produto por enquanto** (20/10/2026). Motivo: muita informação num mapa só. Ideia para depois: um mapa separado, numa outra seção da página, junto com Bairros — formato ainda não decidido.
-- Indicadores de perfil da área atendida (% atendidos nos 30% mais pobres e nos 30% mais ricos, % pretos e pardos, renda média da área atendida): **retirados do modo técnico** (20/10/2026) por serem do território e não da linha; reservados para a futura seção territorial com camadas e Bairros.
+- Indicadores de perfil da área atendida (% atendidos nos 30% de renda mais baixa e nos 30% de renda mais alta, % pretos e pardos, renda média da área atendida): **retirados do modo técnico** (20/10/2026) por serem do território e não da linha; reservados para a futura seção territorial com camadas e Bairros.
 
 ## Modo geral (público)
 - Indicadores das linhas: Tempo de espera (por dia e horário), Ônibus por dia, Velocidade, Horário de funcionamento, Moradores perto (400 m a pé), Tamanho do trajeto.
@@ -39,7 +39,7 @@ Versões: v1 (19/10/2026) núcleo · v2 (20/10/2026) moradores por ponto de para
 
 ## Reservado para a futura seção territorial (camadas + Bairros + perfil da área atendida)
 - Camadas (v3): Ônibus perto de casa, Renda e ônibus, Onde falta ônibus, Caminho até o ponto. Aba Bairros: 166 bairros, ficha com cobertura, nível de serviço, caminhada média, renda, pessoas onde falta ônibus e linhas que param.
-- Perfil da área atendida por linha (retirado do modo técnico na v6): % atendidos nos 30% mais pobres (neutro = 30%; média das linhas 19%) e nos 30% mais ricos (média 42%), % pretos e pardos (cidade = 54%), renda média da área atendida. Os valores estão em `indicadores_linhas.csv` (colunas pct_pop_30pct_mais_pobres, pct_pop_30pct_mais_ricos, pct_pretos_pardos, renda_media_area_atendida).
+- Perfil da área atendida por linha (retirado do modo técnico na v6): % atendidos nos 30% de renda mais baixa (neutro = 30%; média das linhas 19%) e nos 30% de renda mais alta (média 42%), % pretos e pardos (cidade = 54%), renda média da área atendida. Os valores estão em `indicadores_linhas.csv` (colunas pct_pop_30pct_renda_mais_baixa, pct_pop_30pct_renda_mais_alta, pct_pretos_pardos, renda_media_area_atendida).
 - Arquivos em `reserva_secao_territorial/`: página v3 (camadas + Bairros), página v5 (com os indicadores de perfil), territorio.json, PNGs das camadas, painel_territorio.py (gera esses dados: `python3 painel_territorio.py censo osm ape <destino>`) e patch_v3.py.
 - Técnica das camadas: grade de 100 m codificada em PNG e colorida na página com as cores do tema; índice de bairro por quadrícula.
 

diff --git a/README.md b/README.md
@@ -27,8 +27,8 @@ Tudo é **serviço programado** (não há demanda, GPS nem cumprimento de viagen
 - 494 linhas (436 ônibus, 30 BRT, 28 executivos), 7.694 paradas; 104.014 partidas expandidas a partir de `frequencies.txt` (50.310 em dia útil).
 - **68,0% dos moradores estão a até 400 m a pé de uma parada** (85,8% se medido em linha reta). O caminho real é, na mediana, 1,44 vez a linha reta.
 - 55% têm 10 ou mais ônibus por hora no pico a até 400 m a pé; 32% não têm parada a essa distância.
-- Renda: no décimo mais pobre, 40,9% estão a 400 m a pé de uma parada; no 9º décimo, 85,1%.
-- **1,19 milhão de pessoas** estão nos 30% mais pobres e têm pouca oferta (sem parada a 400 m a pé ou menos de 10 ônibus/h no pico). Os maiores contingentes estão em Santa Cruz, Maré, Bangu, Jacarepaguá e Senador Camará.
+- Renda: no décimo de renda mais baixa, 40,9% estão a 400 m a pé de uma parada; no 9º décimo, 85,1%.
+- **1,19 milhão de pessoas** estão nos 30% de renda mais baixa e têm pouca oferta (sem parada a 400 m a pé ou menos de 10 ônibus/h no pico). Os maiores contingentes estão em Santa Cruz, Maré, Bangu, Jacarepaguá e Senador Camará.
 - Intervalo mediano no pico da manhã: 16,5 min por linha; frota mínima estimada no pico: ~4,1 mil ônibus.
 
 Detalhes e ressalvas: [docs/plano-e-metodo.md](docs/plano-e-metodo.md).
@@ -104,7 +104,7 @@ As camadas de mapa estão em `reserva_secao_territorial/`, com a página v3 e a 
 - onde falta ônibus;
 - caminho até o ponto.
 
-Também estão lá a aba Bairros (166 bairros) e o perfil da área atendida por linha: % de moradores nos 30% mais pobres e nos 30% mais ricos, % de pretos e pardos e renda média. A ideia é voltar com tudo isso numa seção própria, com mapa separado. Os valores do perfil continuam em `resultados/linhas/indicadores_linhas.csv`.
+Também estão lá a aba Bairros (166 bairros) e o perfil da área atendida por linha: % de moradores nos 30% de renda mais baixa e nos 30% de renda mais alta, % de pretos e pardos e renda média. A ideia é voltar com tudo isso numa seção própria, com mapa separado. Os valores do perfil continuam em `resultados/linhas/indicadores_linhas.csv`.
 
 ## Limitações
 
